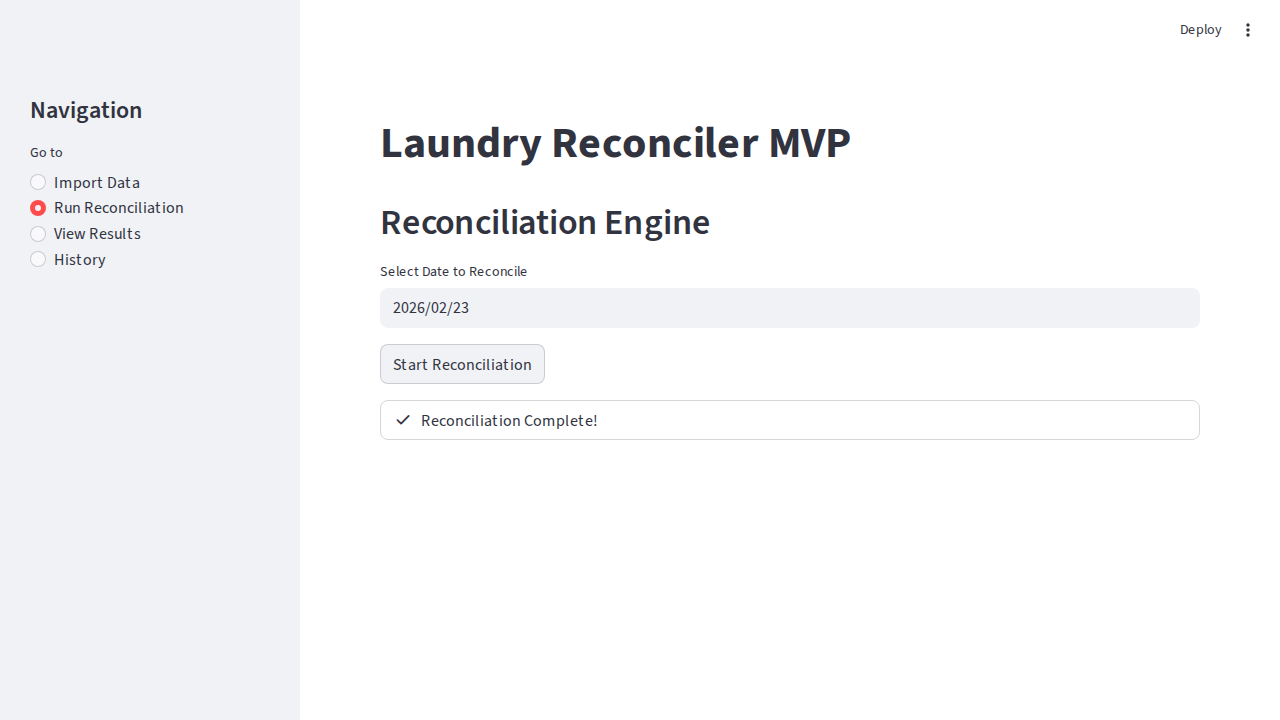
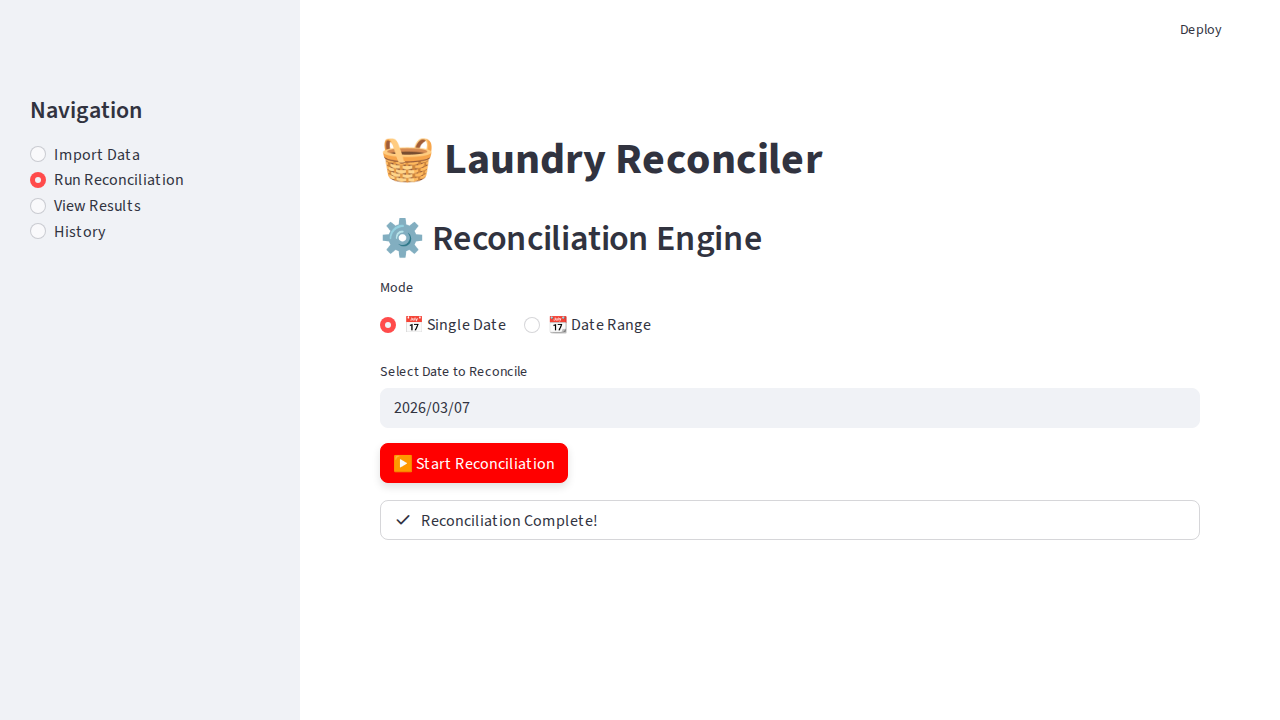
🎨 Palette: Use `st.status` for progress and fix preview stream reset
- 💡 What: Replaced sequential `st.spinner` calls with collapsible `st.status` containers during the reconciliation process. Additionally, moved `uploaded.seek(0)` inside a `finally` block for all data preview logic.
- 🎯 Why: Using `st.status` adheres to progressive disclosure principles, keeping the UI clean during long-running matching and reconciliation steps while still providing visual progress feedback. Fixing the file pointer reset ensures the data stream is always available for the actual import, even if generating the preview fails (e.g. invalid Excel format).
- 📸 Before/After: Visual verified using Playwright screenshots.
- ♿ Accessibility: Improved screen reader and keyboard tracking by reducing sequential focus/live-region updates during long tasks in favor of a single status container.

diff --git a/src/ui/app.py b/src/ui/app.py
@@ -215,9 +215,10 @@ def render_import_step(step_num, title, desc, key, importer_class, session_db,
                 else:
                     preview_df = pd.read_excel(uploaded, nrows=5)
                 st.dataframe(preview_df.astype(str), width='stretch')
-                uploaded.seek(0)  # Reset for import
             except Exception:
                 st.warning("Could not preview file")
+            finally:
+                uploaded.seek(0)  # Reset for import
 
         if st.button(f"🚀 Import {title}", key=f"btn_{key}"):
             with st.spinner(f"Importing {title}..."):
@@ -325,9 +326,10 @@ def render_notepad_step(session_db, is_unlocked):
                             preview_sheet = selected_sheet if selected_sheet != '__all__' else 0
                             preview = pd.read_excel(uploaded, sheet_name=preview_sheet, nrows=5)
                         st.dataframe(preview.astype(str), width='stretch')
-                        uploaded.seek(0)
                     except Exception:
                         st.warning("Could not preview file")
+                    finally:
+                        uploaded.seek(0)
 
                 if st.button("🚀 Import Notepad File", key="btn_notepad_file"):
                     with st.spinner("Importing Notepad data..."):
@@ -514,9 +516,10 @@ def render_cash_register_step(session_db, is_unlocked):
                 preview_sheet = selected_sheet if not isinstance(selected_sheet, list) else selected_sheet[0]
                 preview = pd.read_excel(uploaded, sheet_name=preview_sheet, nrows=5)
                 st.dataframe(preview.astype(str), width='stretch')
-                uploaded.seek(0)
             except Exception:
                 st.warning("Could not preview file")
+            finally:
+                uploaded.seek(0)
 
         if st.button("🚀 Import Cash Register", key="btn_cash_register"):
             with st.spinner("Importing Cash Register data..."):
@@ -618,15 +621,17 @@ def page_reconciliation(session_db):
         run_date = st.date_input("Select Date to Reconcile", value=date.today())
 
         if st.button("▶ Start Reconciliation", type="primary"):
-            with st.spinner("Running Matching Service..."):
+            with st.status("Running Reconciliation Engine...", expanded=True) as status:
+                st.write("Running Matching Service...")
                 matcher = MatchingService(session_db)
                 match_stats = matcher.match_notepad_deliveries()
                 mswipe_stats = matcher.match_mswipe_payments()
 
-            with st.spinner(f"Running Reconciliation for {run_date}..."):
+                st.write(f"Running Reconciliation for {run_date}...")
                 recon = ReconciliationService(session_db)
                 try:
                     run = recon.run_reconciliation(run_date)
+                    status.update(label="Reconciliation Complete!", state="complete", expanded=False)
                     st.success(f"✅ Reconciliation Complete! Run ID: {run.id}")
 
                     col1, col2, col3 = st.columns(3)
@@ -644,6 +649,7 @@ def page_reconciliation(session_db):
                         st.rerun()
 
                 except LaundryReconcilerError as e:
+                    status.update(label="Reconciliation Failed!", state="error", expanded=True)
                     st.error(f"❌ Reconciliation Failed: {e}")
 
     else:
@@ -662,23 +668,26 @@ def page_reconciliation(session_db):
         st.info(f"📊 Will reconcile **{total_days} days** from {start_date} to {end_date}")
 
         if st.button("▶ Start Range Reconciliation", type="primary"):
-            # Run matching first
-            with st.spinner("Running Matching Service..."):
+            with st.status("Running Range Reconciliation...", expanded=True) as status:
+                # Run matching first
+                st.write("Running Matching Service...")
                 matcher = MatchingService(session_db)
                 match_stats = matcher.match_notepad_deliveries()
                 mswipe_stats = matcher.match_mswipe_payments()
 
-            # Run range reconciliation with progress bar
-            progress_bar = st.progress(0, text="Starting reconciliation...")
-            status_text = st.empty()
+                # Run range reconciliation with progress bar
+                st.write("Starting reconciliation...")
+                progress_bar = st.progress(0, text="Starting reconciliation...")
+                status_text = st.empty()
 
-            def on_progress(current, total):
-                progress_bar.progress(current / total, text=f"Processing day {current}/{total}...")
+                def on_progress(current, total):
+                    progress_bar.progress(current / total, text=f"Processing day {current}/{total}...")
 
-            recon = ReconciliationService(session_db)
-            totals = recon.run_reconciliation_range(start_date, end_date, progress_callback=on_progress)
+                recon = ReconciliationService(session_db)
+                totals = recon.run_reconciliation_range(start_date, end_date, progress_callback=on_progress)
 
-            progress_bar.progress(1.0, text="✅ Complete!")
+                progress_bar.progress(1.0, text="✅ Complete!")
+                status.update(label="Range Reconciliation Complete!", state="complete", expanded=False)
 
             # Show consolidated results
             st.success(f"✅ Range Reconciliation Complete!")

diff --git a/verification/verify_ux.py b/verification/verify_ux.py
@@ -45,7 +45,7 @@ def run():
             # Wait for status container
             try:
                 # The status container header
-                page.wait_for_selector("text=Running Reconciliation Process...", timeout=5000)
+                page.wait_for_selector("text=Running Reconciliation Engine...", timeout=5000)
                 print("Status container found.")
             except:
                 print("Status container not found immediately.")

diff --git a/tests/test_ui_syntax.py b/tests/test_ui_syntax.py
@@ -38,5 +38,5 @@ def test_ui_import_and_basic_structure():
 
     # Verify basic streamlit calls were made (which happens on import for this script)
     mock_st.set_page_config.assert_called()
-    mock_st.title.assert_called_with("Laundry Reconciler MVP")
+    mock_st.title.assert_called_with("🧺 Laundry Reconciler")
     mock_st.sidebar.title.assert_called_with("Navigation")
